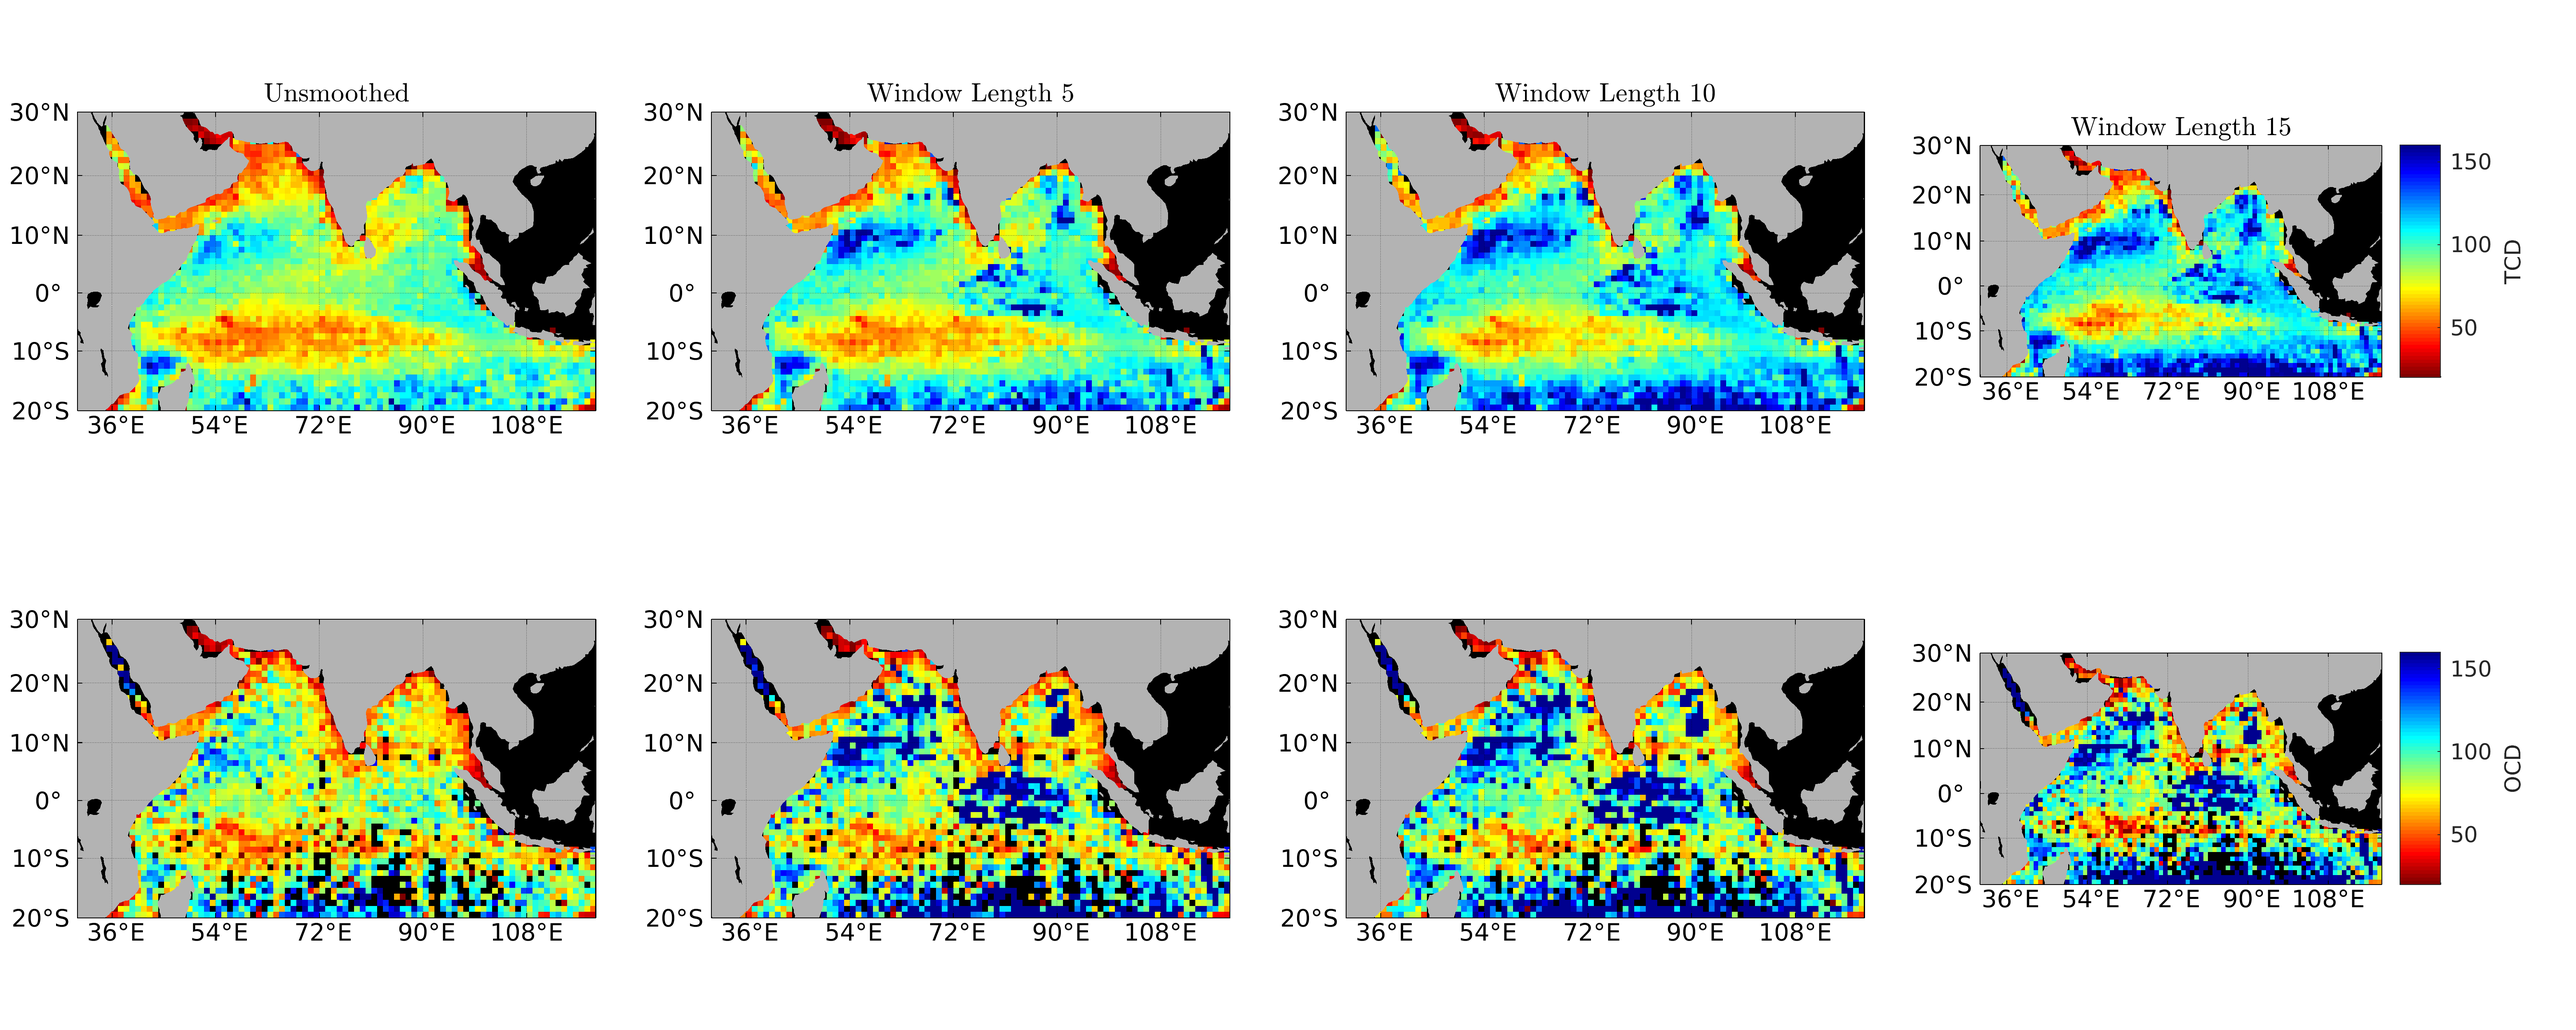
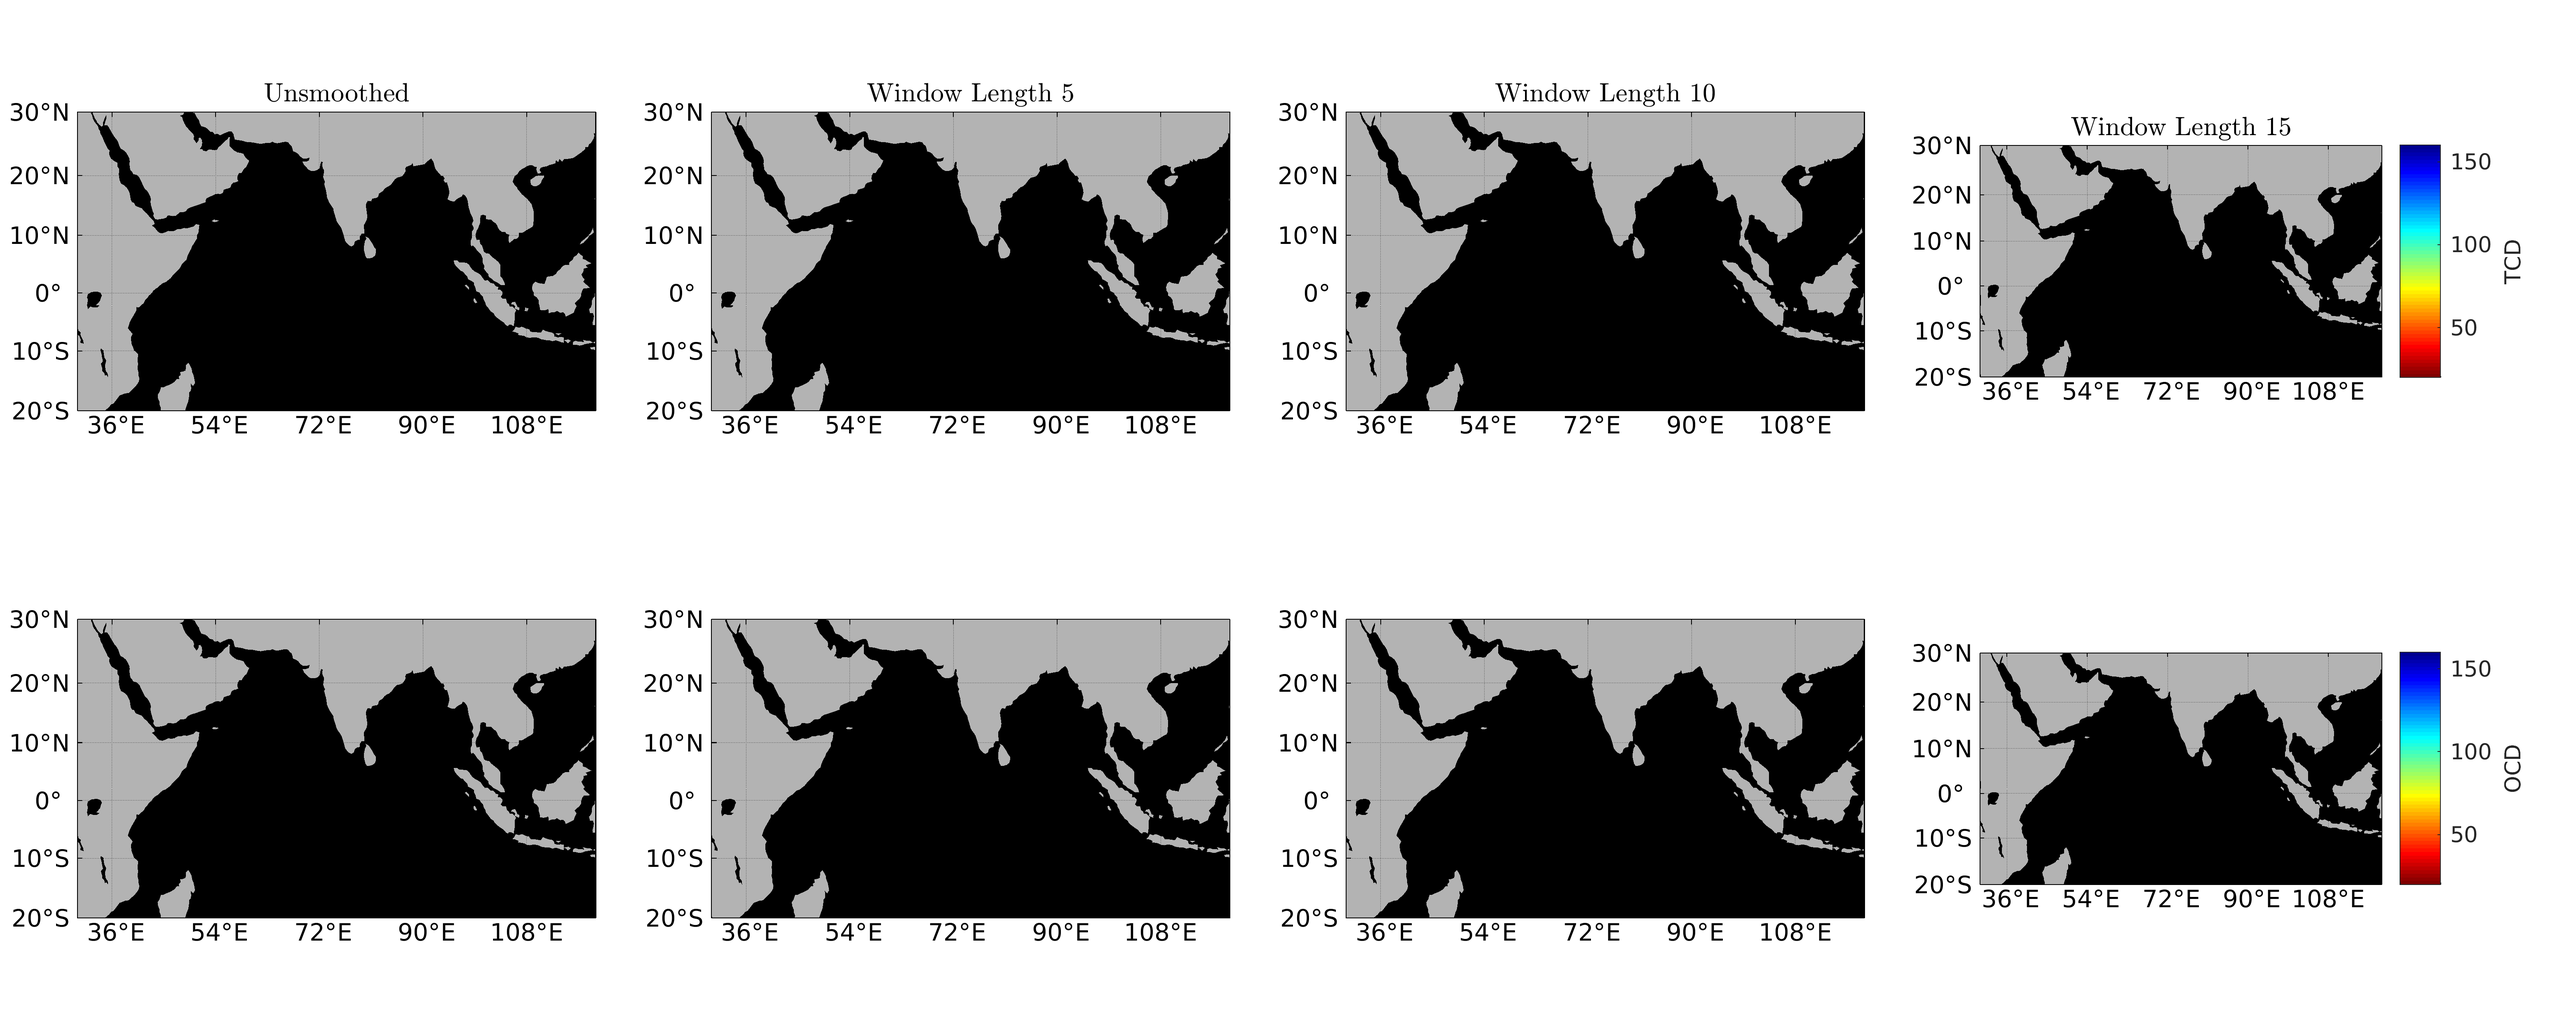
ud

diff --git a/Code/Initial_Testing/Merged_Data/B_Vertical_Smoothing_Testing.m b/Code/Initial_Testing/Merged_Data/B_Vertical_Smoothing_Testing.m
@@ -114,6 +114,7 @@ struc.grad_temp_sm_15 = movmean(struc.grad_temp,15,'omitnan');
 [grad_temp_min_sm_15,grad_temp_min_ind_sm_15] = min(struc.grad_temp_sm_15);
 [grad_doxy_min_sm_15,grad_doxy_min_ind_sm_15] = min(struc.grad_doxy_sm_15);
 
+
 % % take the two largest negative gradients
 % [grad_temp_mink,grad_temp_mink_ind] = mink(grad_temp,2);
 % [grad_doxy_mink,grad_doxy_mink_ind] = mink(grad_doxy,2);
@@ -170,8 +171,23 @@ struc.OCD_sm_15(isnan(grad_doxy_min_sm_15))=nan;
 
 % set TCD/OCD for depths greater than 400dbar to nans
 
-struc.TCD(struc.TCD>=400) = nan;
-struc.OCD(struc.OCD>=400) = nan;
+% scatter(struc.OCD,grad_doxy_min,'.')
+grad_O_thresh = -5;
+grad_T_thresh = -0.05;
+
+% pres_thresh = 300;
+% 
+struc.TCD(grad_temp_min>=grad_T_thresh) = nan;
+struc.OCD(grad_doxy_min>=grad_O_thresh) = nan;
+
+struc.TCD_sm_5(grad_temp_min_sm_5>=grad_T_thresh) = nan;
+struc.OCD_sm_5(grad_doxy_min_sm_5>=grad_O_thresh) = nan;
+
+struc.TCD_sm_10(grad_temp_min_sm_10>=grad_T_thresh) = nan;
+struc.OCD_sm_10(grad_doxy_min_sm_10>=grad_O_thresh) = nan;
+
+struc.TCD_sm_15(grad_temp_min_sm_15>=grad_T_thresh) = nan;
+struc.OCD_sm_15(grad_doxy_min_sm_15>=grad_O_thresh) = nan;
 
 % TCD_grad(isnan(grad_temp(grad_temp_min_ind)))=nan;
 % OCD_grad(isnan(grad_doxy(grad_doxy_min_ind)))=nan;
